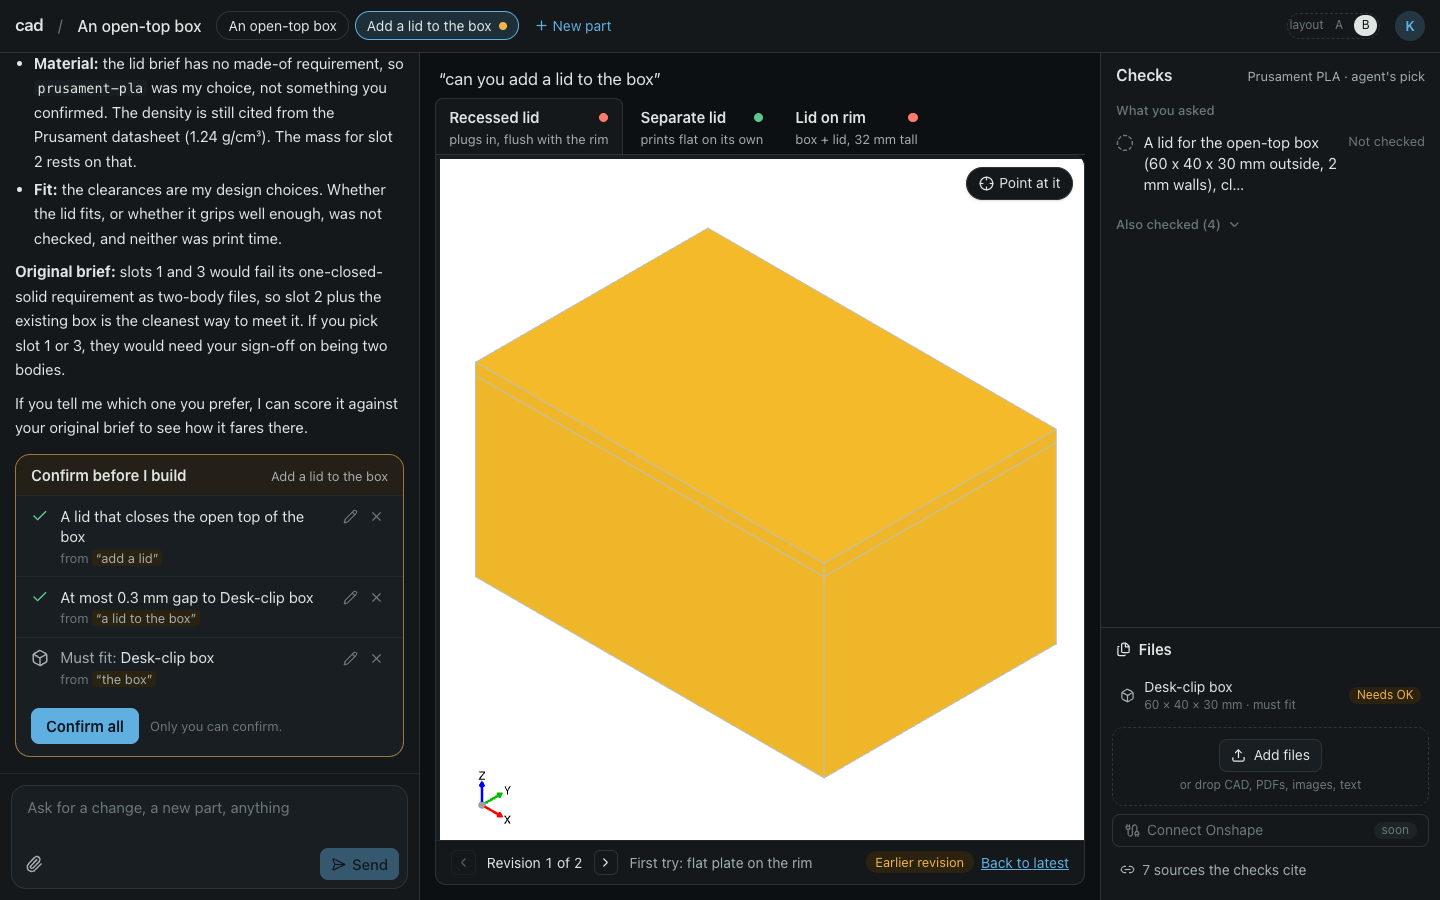
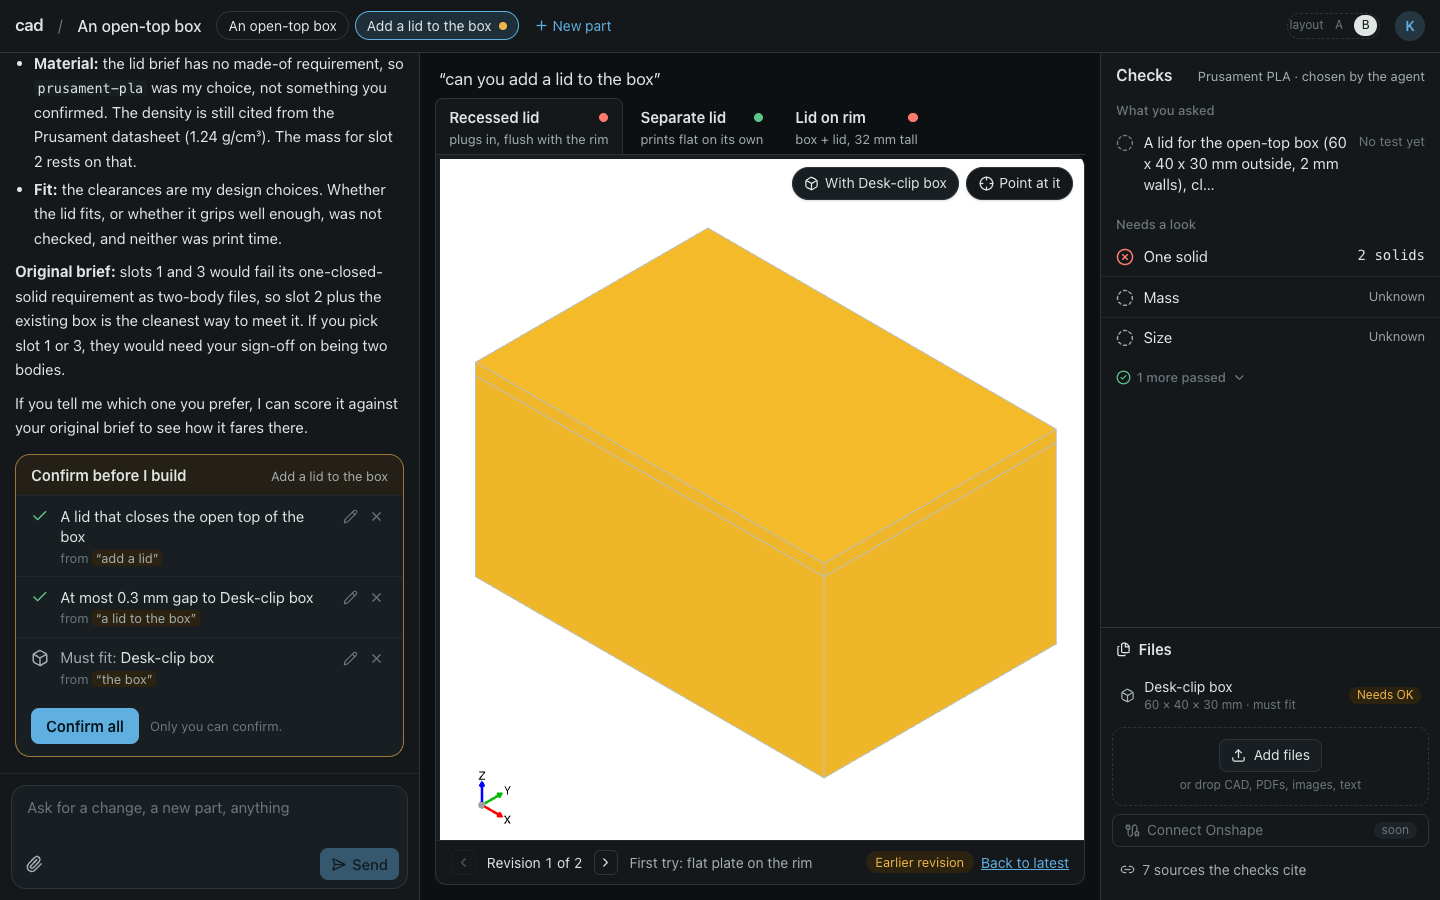
proto(web): fold in the friction audit, final screenshots
Confirm makes the agent carry on (#203), a pointed change is a real
new revision of its option (#204), plain names and no internal terms
in the checks (#205), the box drawn ghosted with each lid (#206), and
the material labelled as chosen by the agent (#200).

diff --git a/web/src/workspace/Chat.tsx b/web/src/workspace/Chat.tsx
@@ -288,23 +288,28 @@ export function Composer(props: {
 
 export function ChatPane(props: {
   lines: readonly Line[];
+  /** Lines said after the card was drawn, so they read below it. */
+  later: readonly Line[];
   pointed: Record<number, string>;
   running: boolean;
   card: ReactNode;
   composer: ReactNode;
   notice: string | null;
 }) {
-  const { lines, pointed, running, card, composer, notice } = props;
+  const { lines, later, pointed, running, card, composer, notice } = props;
+  const said = (all: readonly Line[]) =>
+    grouped(all).map((one) => (one.kind === "activity" ? <Activity key={`a${String(one.key)}`} lines={one.lines} /> : <Said key={one.line.seq} line={one.line} pointed={pointed[one.line.seq]} />));
   const end = useRef<HTMLDivElement>(null);
   useEffect(() => {
     end.current?.scrollIntoView({ block: "end" });
-  }, [lines, card, notice]);
+  }, [lines, later, card, notice]);
   return (
     <section aria-label="Chat" className="flex h-full min-h-0 flex-col">
       <div role="log" className="min-h-0 flex-1 space-y-4 overflow-y-auto px-4 py-4">
-        {grouped(lines).map((one) => (one.kind === "activity" ? <Activity key={`a${String(one.key)}`} lines={one.lines} /> : <Said key={one.line.seq} line={one.line} pointed={pointed[one.line.seq]} />))}
+        {said(lines)}
         {running ? <p className="text-[14px] text-ink-3">Working…</p> : null}
         {card}
+        {said(later)}
         {notice ? <p className="rounded-lg bg-panel-2 px-3 py-2 text-[14px] text-ink-2">{notice}</p> : null}
         <div ref={end} />
       </div>

diff --git a/web/src/workspace/model.ts b/web/src/workspace/model.ts
@@ -101,6 +101,8 @@ const LABELS: Record<string, { label: string; differs: string }> = {
 const NOTES: Record<string, string> = {
   "27c2d5123a01c996": "First try: flat plate on the rim",
   e4c5fd81fa49bb3a: "Plugs in, flush with the rim",
+  "026445a319ce2b10": "2 mm plate",
+  "928167d0fb6c61e6": "3 mm plate, from “make this thicker”",
 };
 
 const MATERIAL_NAMES: Record<string, string> = { "prusament-pla": "Prusament PLA" };
@@ -127,7 +129,9 @@ function materialOf(brief: BriefView): Material {
 function slotsOf(set: VariantSetView | null): Slot[] {
   if (!set) return [];
   return set.members.map((member) => {
-    const latest = LABELS[member.variant_id] ?? { label: `Option ${String(member.slot)}`, differs: "" };
+    /* An option keeps its name across revisions: the newest revision that has one names it. */
+    const named = [member.variant_id, ...member.revisions.map((one) => one.variant_id).reverse()].find((id) => id in LABELS);
+    const latest = (named ? LABELS[named] : undefined) ?? { label: `Option ${String(member.slot)}`, differs: "" };
     return {
       slot: member.slot,
       label: latest.label,

diff --git a/web/src/workspace/Stage.tsx b/web/src/workspace/Stage.tsx
@@ -52,13 +52,17 @@ const SEATED: Record<string, Shapes["parts"][number]["loc"]> = {
     [0, 0, 32],
     [1, 0, 0, 0],
   ],
+  "928167d0fb6c61e6": [
+    [0, 0, 33],
+    [1, 0, 0, 0],
+  ],
 };
 
 function withFit(part: Shapes, fit: Shapes, variantId: string): Shapes {
   const seat = SEATED[variantId];
   const own = part.parts.map((one) => (seat ? { ...one, loc: seat } : one));
   const ghost = fit.parts.map((one) => ({ ...one, id: "/variant/fit", name: "fit", color: "#9aa7b4", alpha: 0.22 }));
-  return { ...part, parts: [...own, ...ghost], bb: { ...fit.bb, zmax: Math.max(fit.bb.zmax, seat ? 32 : part.bb.zmax) } };
+  return { ...part, parts: [...own, ...ghost], bb: { ...fit.bb, zmax: Math.max(fit.bb.zmax, seat ? seat[0][2] : part.bb.zmax) } };
 }
 
 /** Options that already hold the part they fit are drawn as they are. */

diff --git a/web/src/workspace/Workspace.tsx b/web/src/workspace/Workspace.tsx
@@ -246,7 +246,8 @@ function Page({ model }: { model: Model }) {
   );
   const chatPane = (
     <ChatPane
-      lines={[...chat.lines, ...mock.lines]}
+      lines={chat.lines}
+      later={mock.lines}
       pointed={mock.pointed}
       running={chat.turn === "running"}
       card={card}
